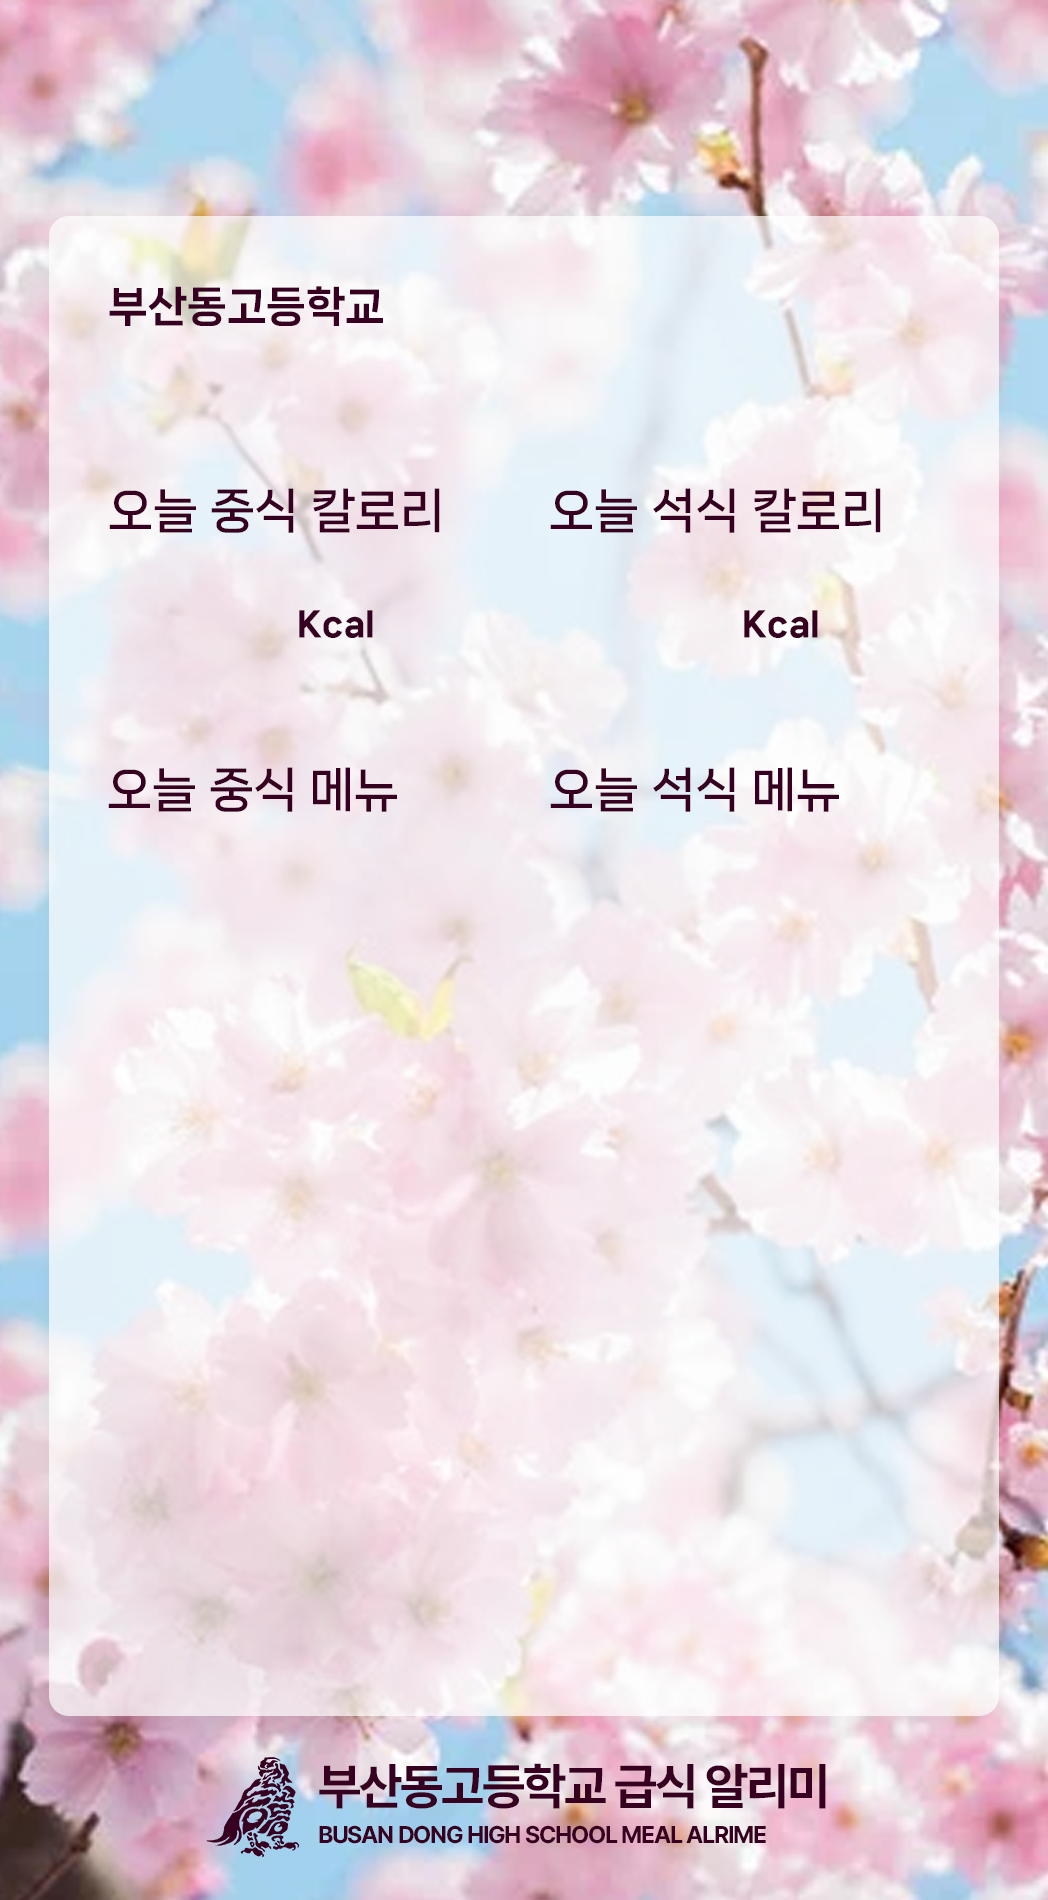
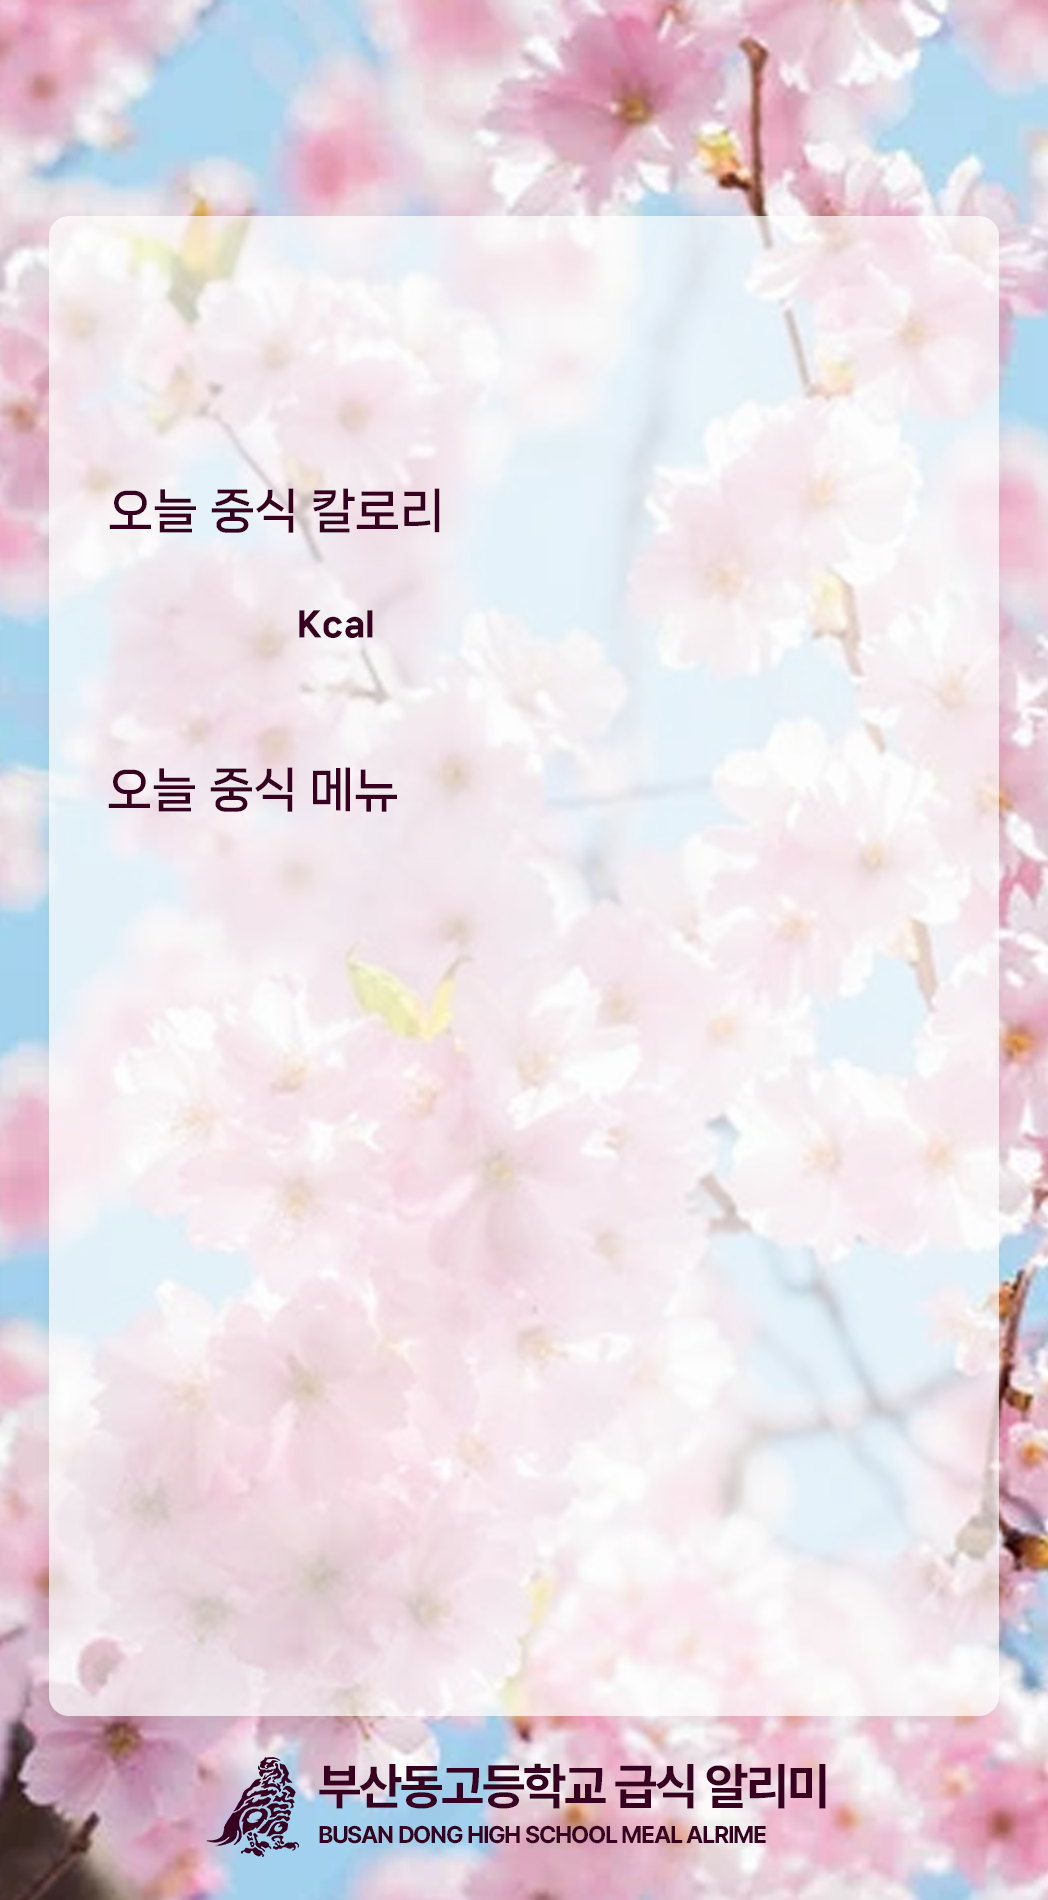
fix: 시지고 전용 기능 제거

diff --git a/src/main/kotlin/io/github/apwlq/schoolmealinfo/AddTextToImage.kt b/src/main/kotlin/io/github/apwlq/schoolmealinfo/AddTextToImage.kt
@@ -89,21 +89,21 @@ object AddTextToImgByStory {
             g.drawString(str, x, y)
         }
 
-        g.color = hex2Rgb(prop["meal_font_color"].toString())
-        g.font = getFont("B").deriveFont(prop["meal_font_size"].toString().toFloat())
-        meal2.split("\n").forEachIndexed { ind, str ->
-            val metrics = g.fontMetrics
-            val textWidth = metrics.stringWidth(str)
-
-            val x = when (prop["meal_font_align"].toString()) {
-                "center" -> (image.width - textWidth) / 2
-                "right" -> image.width - textWidth - prop["meal_font_x2"].toString().toInt()
-                else -> prop["meal_font_x2"].toString().toInt()
-            }
-            val y = prop["meal_font_y2"].toString().toInt() + ind * prop["meal_font_leading"].toString().toInt()
-
-            g.drawString(str, x, y)
-        }
+//        g.color = hex2Rgb(prop["meal_font_color"].toString())
+//        g.font = getFont("B").deriveFont(prop["meal_font_size"].toString().toFloat())
+//        meal2.split("\n").forEachIndexed { ind, str ->
+//            val metrics = g.fontMetrics
+//            val textWidth = metrics.stringWidth(str)
+//
+//            val x = when (prop["meal_font_align"].toString()) {
+//                "center" -> (image.width - textWidth) / 2
+//                "right" -> image.width - textWidth - prop["meal_font_x2"].toString().toInt()
+//                else -> prop["meal_font_x2"].toString().toInt()
+//            }
+//            val y = prop["meal_font_y2"].toString().toInt() + ind * prop["meal_font_leading"].toString().toInt()
+//
+//            g.drawString(str, x, y)
+//        }
 
         g.color = hex2Rgb(prop["school_font_color"].toString())
         g.font = getFont("B").deriveFont(prop["school_font_size"].toString().toFloat())
@@ -127,9 +127,9 @@ object AddTextToImgByStory {
             prop["kcal_font_x"].toString().toInt(),
             prop["kcal_font_y"].toString().toInt())
 
-        g.drawString(kcal2.substring(0,3),
-            prop["kcal_font_x2"].toString().toInt(),
-            prop["kcal_font_y2"].toString().toInt())
+//        g.drawString(kcal2.substring(0,3),
+//            prop["kcal_font_x2"].toString().toInt(),
+//            prop["kcal_font_y2"].toString().toInt())
 
         g.color = hex2Rgb(prop["date_font_color"].toString())
         g.font = getFont("B").deriveFont(prop["date_font_size"].toString().toFloat())

diff --git a/src/main/kotlin/io/github/apwlq/schoolmealinfo/Main.kt b/src/main/kotlin/io/github/apwlq/schoolmealinfo/Main.kt
@@ -25,32 +25,8 @@ fun main(args: Array<String>) {
 
 fun timeline() {
     val client = login()
-    val albumFiles: MutableList<TimelineAction.SidecarInfo> = mutableListOf()
-//    albumFiles.add(
-//        TimelineAction.SidecarPhoto.from(
-//            File("assets/image/timeline_intro.jpg")
-//        )
-//    )
-    if(!getBreakfast().isNullOrEmpty())
-        albumFiles.add(
-            TimelineAction.SidecarPhoto.from(
-                genTimelineImage("오늘의 아침", getBreakfast(), getBreakfastKcal())
-            )
-        )
-    if(!getLunch().isNullOrEmpty())
-        albumFiles.add(
-            TimelineAction.SidecarPhoto.from(
-                genTimelineImage("오늘의 점심", getLunch(), getLunchKcal())
-            )
-        )
-    if(!getDinner().isNullOrEmpty())
-        albumFiles.add(
-            TimelineAction.SidecarPhoto.from(
-                genTimelineImage("오늘의 저녁", getDinner(), getDinnerKcal())
-            )
-        )
-
-    client.actions().timeline().uploadAlbum(albumFiles, "${getNowDate("yyyy년 MM월 dd일")} 오늘의 급식")
+    client.actions().timeline().uploadPhoto(
+        genTimelineImage("오늘의 점심", getLunch(), getLunchKcal()), "${getNowDate("yyyy년 MM월 dd일")} ${System.getenv("SCHOOL_NAME")} 급식")
         .thenAccept {
             println("타임라인에 성공적으로 급식을 업로드했습니다!".trimIndent())
         }
@@ -59,7 +35,8 @@ fun timeline() {
 
 fun story() {
     val client = login()
-    client.actions().story().uploadPhoto(genStoryImage("오늘의 급식", getLunch(), getLunchKcal(), getDinner(), getDinnerKcal()))
+    client.actions().story().uploadPhoto(
+        genTimelineImage("오늘의 급식", getLunch(), getLunchKcal()))
         .thenAccept {
             println("스토리에 성공적으로 아침 급식을 업로드했습니다!".trimIndent())
         }

diff --git a/src/main/kotlin/io/github/apwlq/schoolmealinfo/GenImage.kt b/src/main/kotlin/io/github/apwlq/schoolmealinfo/GenImage.kt
@@ -24,8 +24,8 @@ fun genStoryImage(title: String, meal: String? = "", kcal: String? = "", meal2: 
     var meal2 = meal2
     var kcal2 = kcal2
     if (meal2.isNullOrEmpty() || kcal2.isNullOrEmpty()) {
-        meal2 = "급식이 없습니다"
-        kcal2 = "000"
+        meal2 = ""
+        kcal2 = ""
     }
 
     val png = File("output/story_dist.png")

diff --git a/src/main/kotlin/io/github/apwlq/schoolmealinfo/Test.kt b/src/main/kotlin/io/github/apwlq/schoolmealinfo/Test.kt
@@ -1,12 +1,5 @@
 package io.github.apwlq.schoolmealinfo
 
 fun main()  {
-    println(
-        getLunch()
-    )
-    println(
-    )
-    println(
-        getDinner()
-    )
+
 }
